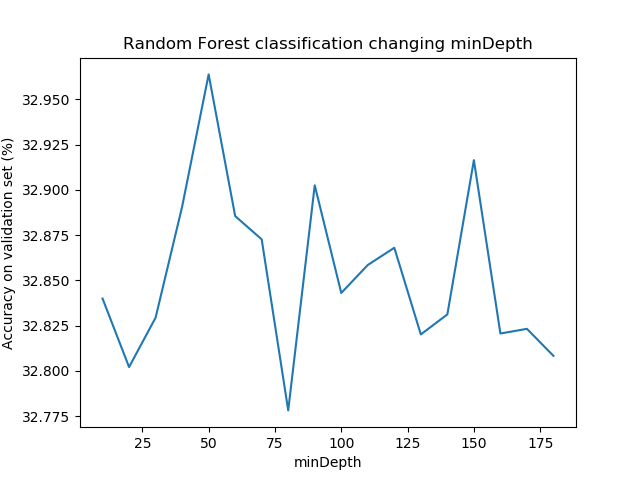
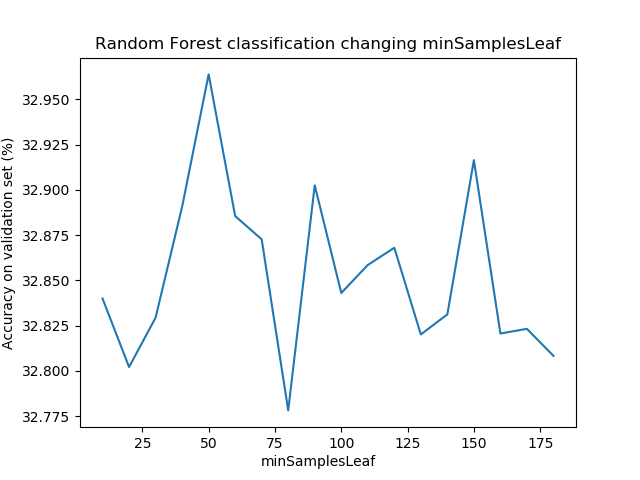
Renamed minDepth to minSamplesLeaf

Changed region(s): [[0.1562, 0.0625, 0.875, 0.125], [0.4062, 0.9375, 0.5938, 1.0]]

diff --git a/Predictor.py b/Predictor.py
@@ -207,7 +207,7 @@ class Classifier:
 
             return losses
 
-    def classifyBySKLRandomForestInRange(self, ks, change, noOfTrees=10, maxFeaturesPerTree="auto", minDepth=1, seed=0,
+    def classifyBySKLRandomForestInRange(self, ks, change, noOfTrees=10, maxFeaturesPerTree="auto", minSamplesLeaf=1, seed=0,
                                          minSamplesSplit=2, bootstrap=True, maxDepth=None, returnPredictions=False,
                                          returnAccuracy=True, printProgress=True, printTime=True, graphIt=True,
                                          graphTitle=""):
@@ -219,9 +219,9 @@ class Classifier:
             elif change == "maxFeaturesPerTree":
                 print('Trying maxFeaturesPerTree=%s' % i)
                 maxFeaturesPerTree = i
-            elif change == "minDepth":
-                print('Trying minDepth=%s' % i)
-                minDepth = i
+            elif change == "minSamplesLeaf":
+                print('Trying minSamplesLeaf=%s' % i)
+                minSamplesLeaf = i
             elif change == "seed":
                 print('Trying seed=%s' % i)
                 seed = i
@@ -236,7 +236,7 @@ class Classifier:
                 break
             start = time.time()
             result = self.classifyBySKLRandomForest(noOfTrees=noOfTrees, maxFeaturesPerTree=maxFeaturesPerTree,
-                                                    minDepth=minDepth, seed=seed, printProgress=False,
+                                                    minSamplesLeaf=minSamplesLeaf, seed=seed, printProgress=False,
                                                     returnPredictions=returnPredictions,
                                                     returnAccuracy=returnAccuracy, predictTest=False,
                                                     minSamplesSplit=minSamplesSplit, bootstrap=bootstrap,
@@ -268,11 +268,11 @@ class Classifier:
                 plt.show()
         return results
 
-    def classifyBySKLRandomForest(self, noOfTrees=10, maxFeaturesPerTree="auto", minDepth=1, seed=0, printProgress=True,
+    def classifyBySKLRandomForest(self, noOfTrees=10, maxFeaturesPerTree="auto", minSamplesLeaf=1, seed=0, printProgress=True,
                                   returnAccuracy=True, returnPredictions=False, predictTest=True, minSamplesSplit=2,
                                   bootstrap=True, maxDepth=None):
         clf = RandomForestClassifier(n_estimators=noOfTrees, max_features=maxFeaturesPerTree,
-                                     n_jobs=self.coresToUse, random_state=seed, min_samples_leaf=minDepth,
+                                     n_jobs=self.coresToUse, random_state=seed, min_samples_leaf=minSamplesLeaf,
                                      min_samples_split=minSamplesSplit, bootstrap=bootstrap, max_depth=maxDepth)
         if printProgress:
             print("Generating forest...")
